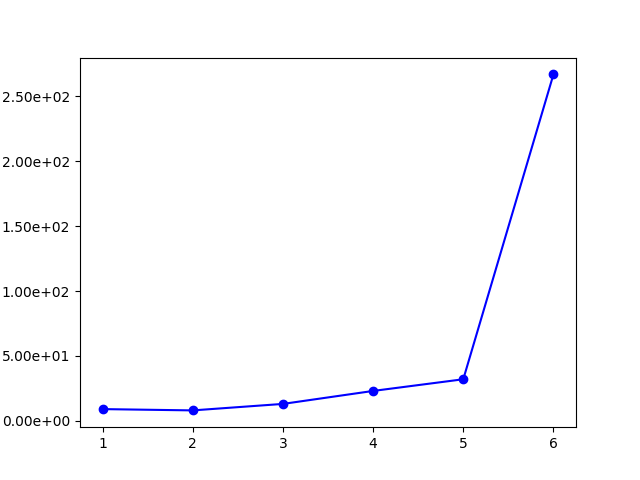
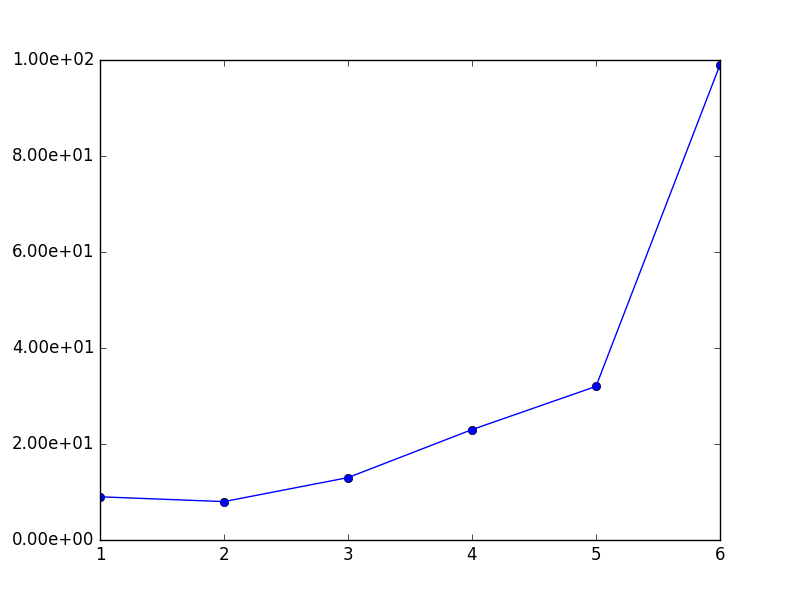
fixed bugs for analysis

diff --git a/timetable_gui.py b/timetable_gui.py
@@ -159,8 +159,11 @@ class Timetable(tk.Frame):
             self.environment.all_bas.extend(to_be_added)
         else:
             to_be_removed = the_ra.remove_bas(old_nb_bas - nb_bas)
+            for ba in self.environment.all_bas:
+                ba.remove_dead_friends(to_be_removed)
             for ba in to_be_removed:
                 self.environment.all_bas.remove(ba)
+            self.environment.perceive_cycle()
 
         self.rules["ra_constraints"][ra_type][str(id)]["nb_courses"] = nb_bas
         self.frame.destroy()
@@ -257,13 +260,18 @@ class Timetable(tk.Frame):
         self.running = False
 
     def step(self):
+        if self.current_ba >= len(self.environment.all_bas):
+            self.current_ba = 0
         ba = self.environment.all_bas[self.current_ba]
         ba.step()
         print("BA {} acted".format(ba.name))
         self.environment.perceive_cycle()
         self.violated_constraints = self.environment.print_info(self.time)
         if self.violated_constraints == 0:
-            exit(0)
+            if not self.should_continue():
+                exit(0)
+            else:
+                self.stop()
         if self.violated_constraints > 0 and (self.old_violated_constraints is None or
                                                   (self.old_violated_constraints is not None and self.violated_constraints < self.old_violated_constraints)):
             self.old_violated_constraints = self.violated_constraints

diff --git a/ra.py b/ra.py
@@ -79,12 +79,17 @@ class RA():
             self.bas.remove(ba)
 
         for ba in self.bas:
-            ba.brothers = [baj for baj in self.bas if baj != ba]
+            ba.brothers = [baj for baj in self.bas if baj != ba and baj not in to_be_removed]
 
         for ba in to_be_removed:
             for constr in self.CB:
                 if constr.owner == ba:
                     self.CB.remove(constr)
+
+        for ba in self.bas:
+            ba.modify_induced_constraints(self.CB)
+            
+
 
         return to_be_removed
 

diff --git a/plot_restabilization_vs_time.py b/plot_restabilization_vs_time.py
@@ -1,0 +1,13 @@
+import numpy as np
+import matplotlib.pyplot as plt
+import matplotlib.ticker as mtick
+
+# test 1
+# Algorithm is stopped at time 163 - timetable bookings 18 / 18
+# Remove 3 bas from each teacher 1
+# Add 1 time constraint to teacher 1 (day 2, time slot - 8h - 10h)
+# Stopped algorithm at time 275 - timetable bookings 15 / 15
+# Add 1 ba for ra 2 (teacher 2). Remove constraint from ra 2 (teacher 2) - unavailability day 1 - timeslot 14-16
+# Restabilization at time 311
+
+

diff --git a/ba.py b/ba.py
@@ -53,6 +53,11 @@ class BA():
         # the list of brothers this guy has
         self.brothers = []
 
+    def remove_dead_friends(self, to_be_removed):
+        for ba in self.knows:
+            if ba in to_be_removed:
+                self.knows.remove(ba)
+
     def test_deadlock(self):
         if self.reservation:
             return True

diff --git a/plot_nb_constraints_vs_time.py b/plot_nb_constraints_vs_time.py
@@ -4,7 +4,7 @@ import matplotlib.ticker as mtick
 
 x = [6, 5, 4, 3, 2, 1, 0]
 
-y = [267, 78, 96, 15, 13, 12, 8]
+y = [99, 78, 39, 15, 13, 12, 8]
 # best_x = np.argmin(np.asarray(y))
 # best_y = np.min(np.asarray(y))
 

diff --git a/plot_nb_bas_vs_time.py b/plot_nb_bas_vs_time.py
@@ -4,7 +4,7 @@ import matplotlib.ticker as mtick
 
 x = [6, 5, 4, 3, 2, 1]
 
-y = [267, 32, 23, 13, 8, 9]
+y = [99, 32, 23, 13, 8, 9]
 # best_x = np.argmin(np.asarray(y))
 # best_y = np.min(np.asarray(y))
 
